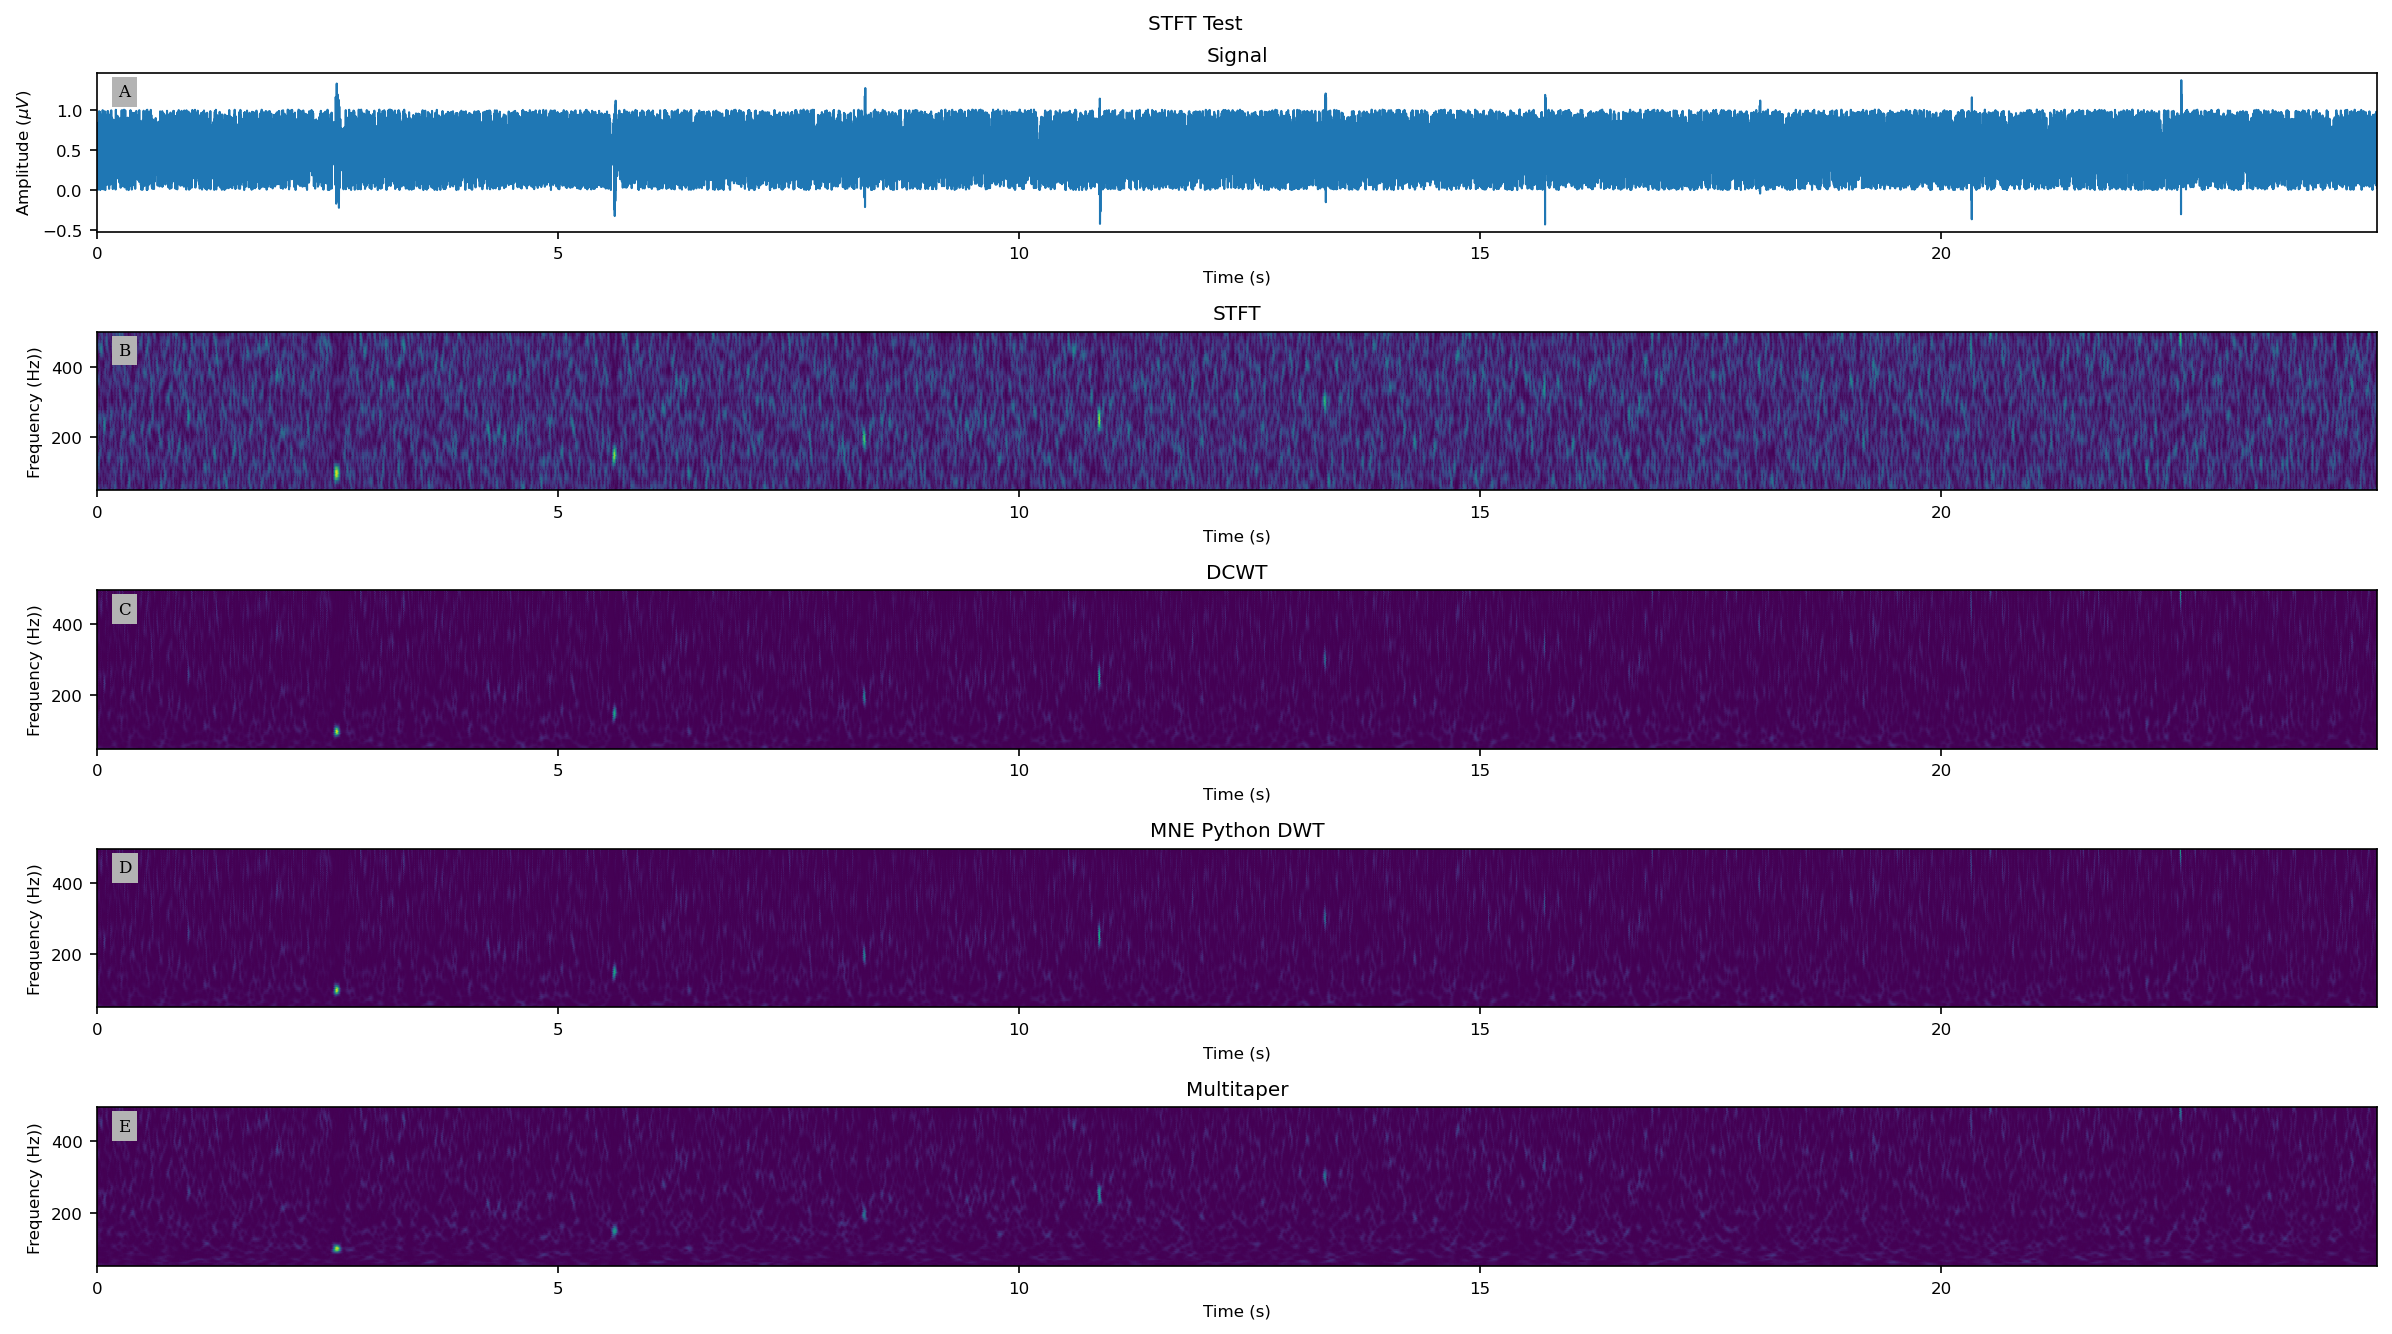
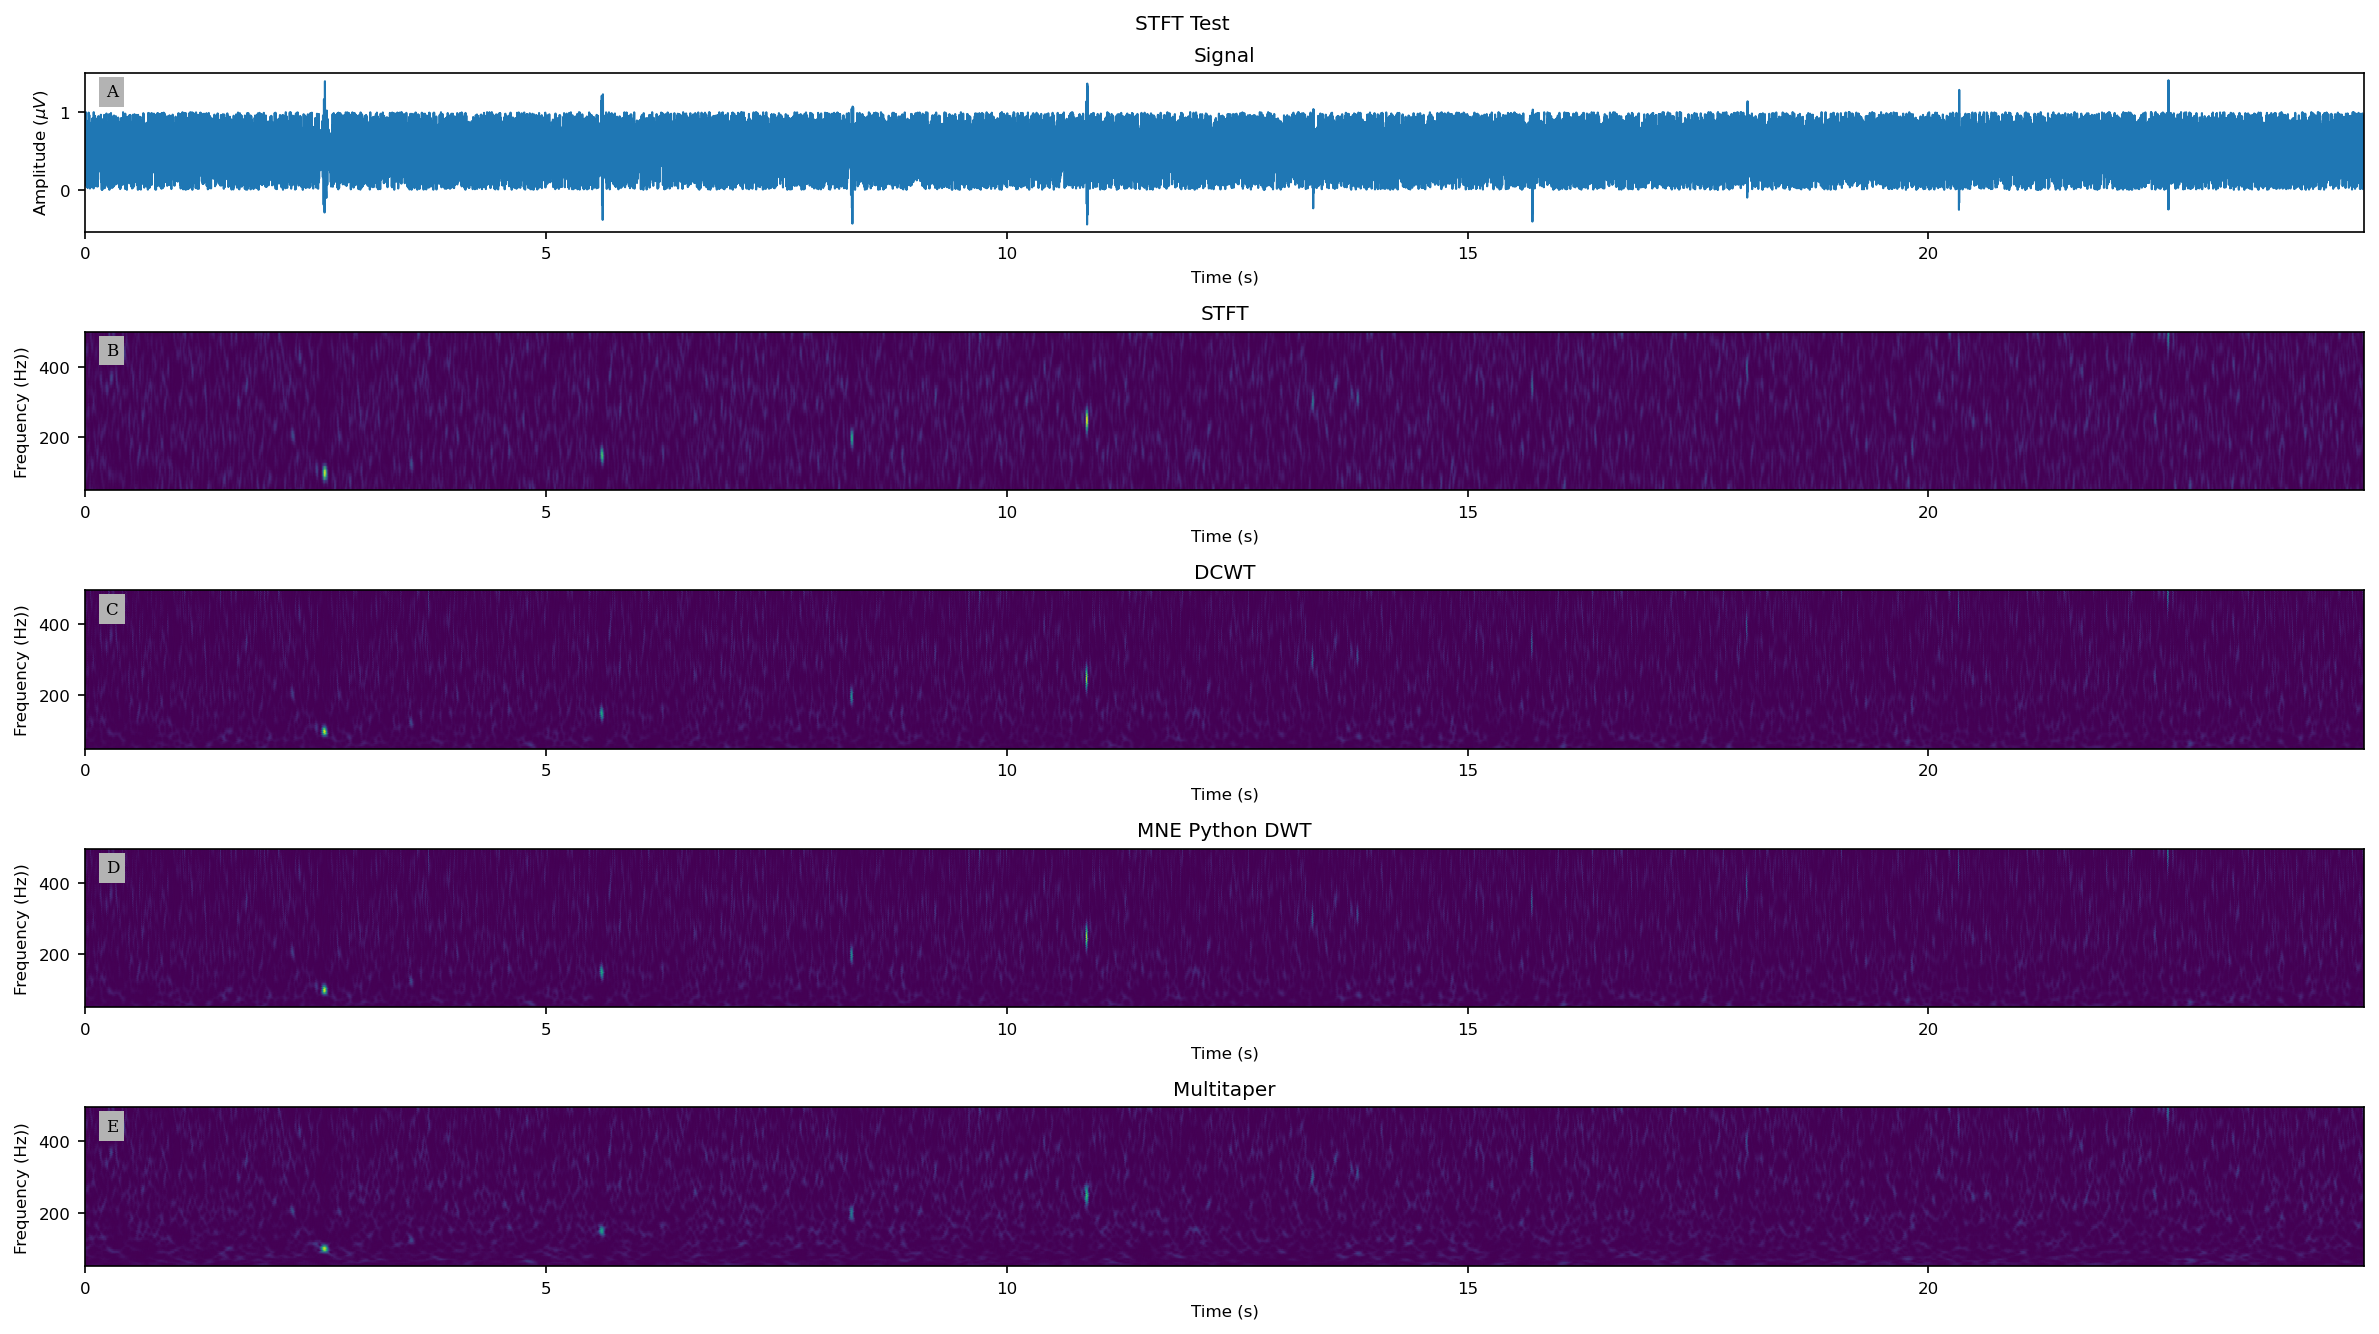
STFT window overlap is 80%

diff --git a/src/dsp_exercises.py b/src/dsp_exercises.py
@@ -689,7 +689,7 @@ def test_stft():
     # Get signal
     pattern_freqs = np.arange(100, 510, 50)
     # pattern_freqs = np.tile(pattern_freqs, 2)
-    attenuation = 0.5
+    attenuation = 0
     rand_signal = np.random.random(2*fs)
     signal = rand_signal
     for f in pattern_freqs:
@@ -705,10 +705,13 @@ def test_stft():
 
     # Short Time Fourier Transform
     seglen = int(round(fs*0.05))
-    overlaplen = seglen/2
-    f, t, zx = sig.stft(signal, fs, 'hamming', seglen, overlaplen,
+    overlaplen = (seglen*0.8)
+    # hann, hamming, blackman, bartlett
+    f, t, zx = sig.stft(signal, fs, 'hann', seglen, overlaplen,
                         nfft=seglen*2, detrend='linear')
     zx = np.abs(zx)
+    zx = zx**2
+    zx /= np.max(zx)
 
     cmwt_freqs = np.arange(50, 1000, 10)
     cmwt_freqs, cmwtm = dcmwt(signal, fs, cmwt_freqs, nr_cycles=11)
@@ -781,10 +784,12 @@ def test_multitaper():
 
     # Short Time Fourier Transform
     seglen = int(round(fs*0.05))
-    overlaplen = int(seglen-1)
-    f, t, zx = sig.stft(signal, fs, 'hamming', seglen, overlaplen,
+    overlaplen = (seglen*0.8)
+    # hann, hamming, blackman, bartlett
+    f, t, zx = sig.stft(signal, fs, 'hann', seglen, overlaplen,
                         nfft=seglen*2, detrend='linear')
     zx = np.abs(zx)
+    zx = zx**2
     zx /= np.max(zx)
 
     # Wavelet Transform
@@ -895,6 +900,7 @@ def test_multitaper():
 
 plt.rcParams.update({'font.size': 8})
 
+"""
 test_convolution()
 test_fourier_transform()
 test_rmw_transform()
@@ -903,5 +909,6 @@ test_dcmwt()
 test_hilbert_transform()
 test_fft_for_hfo()
 test_stft()
+"""
 test_multitaper()
 stop = 1
